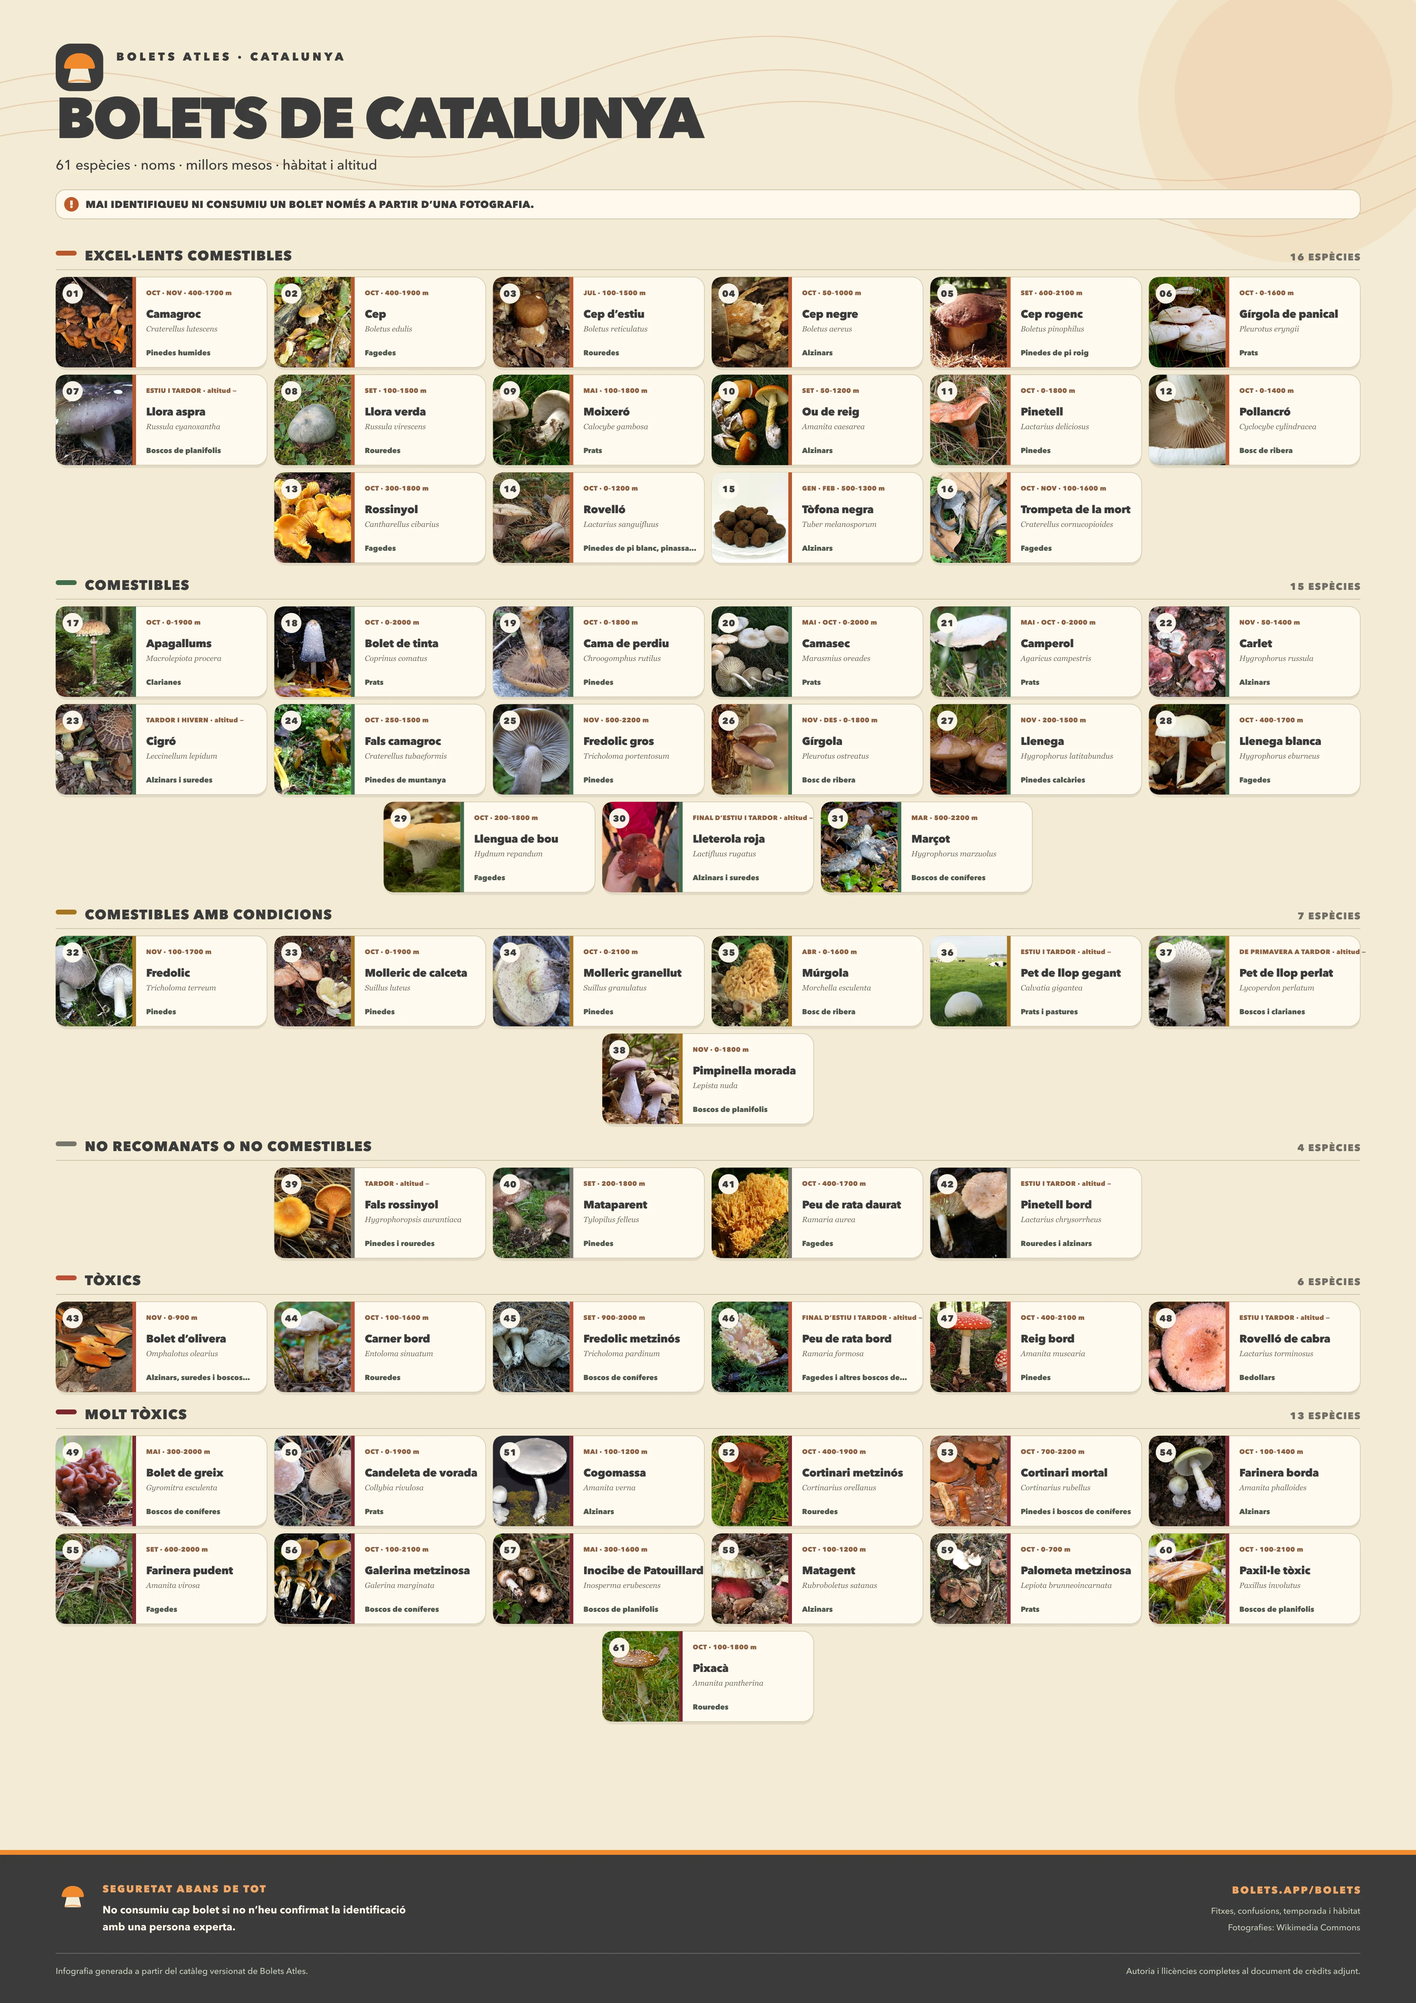
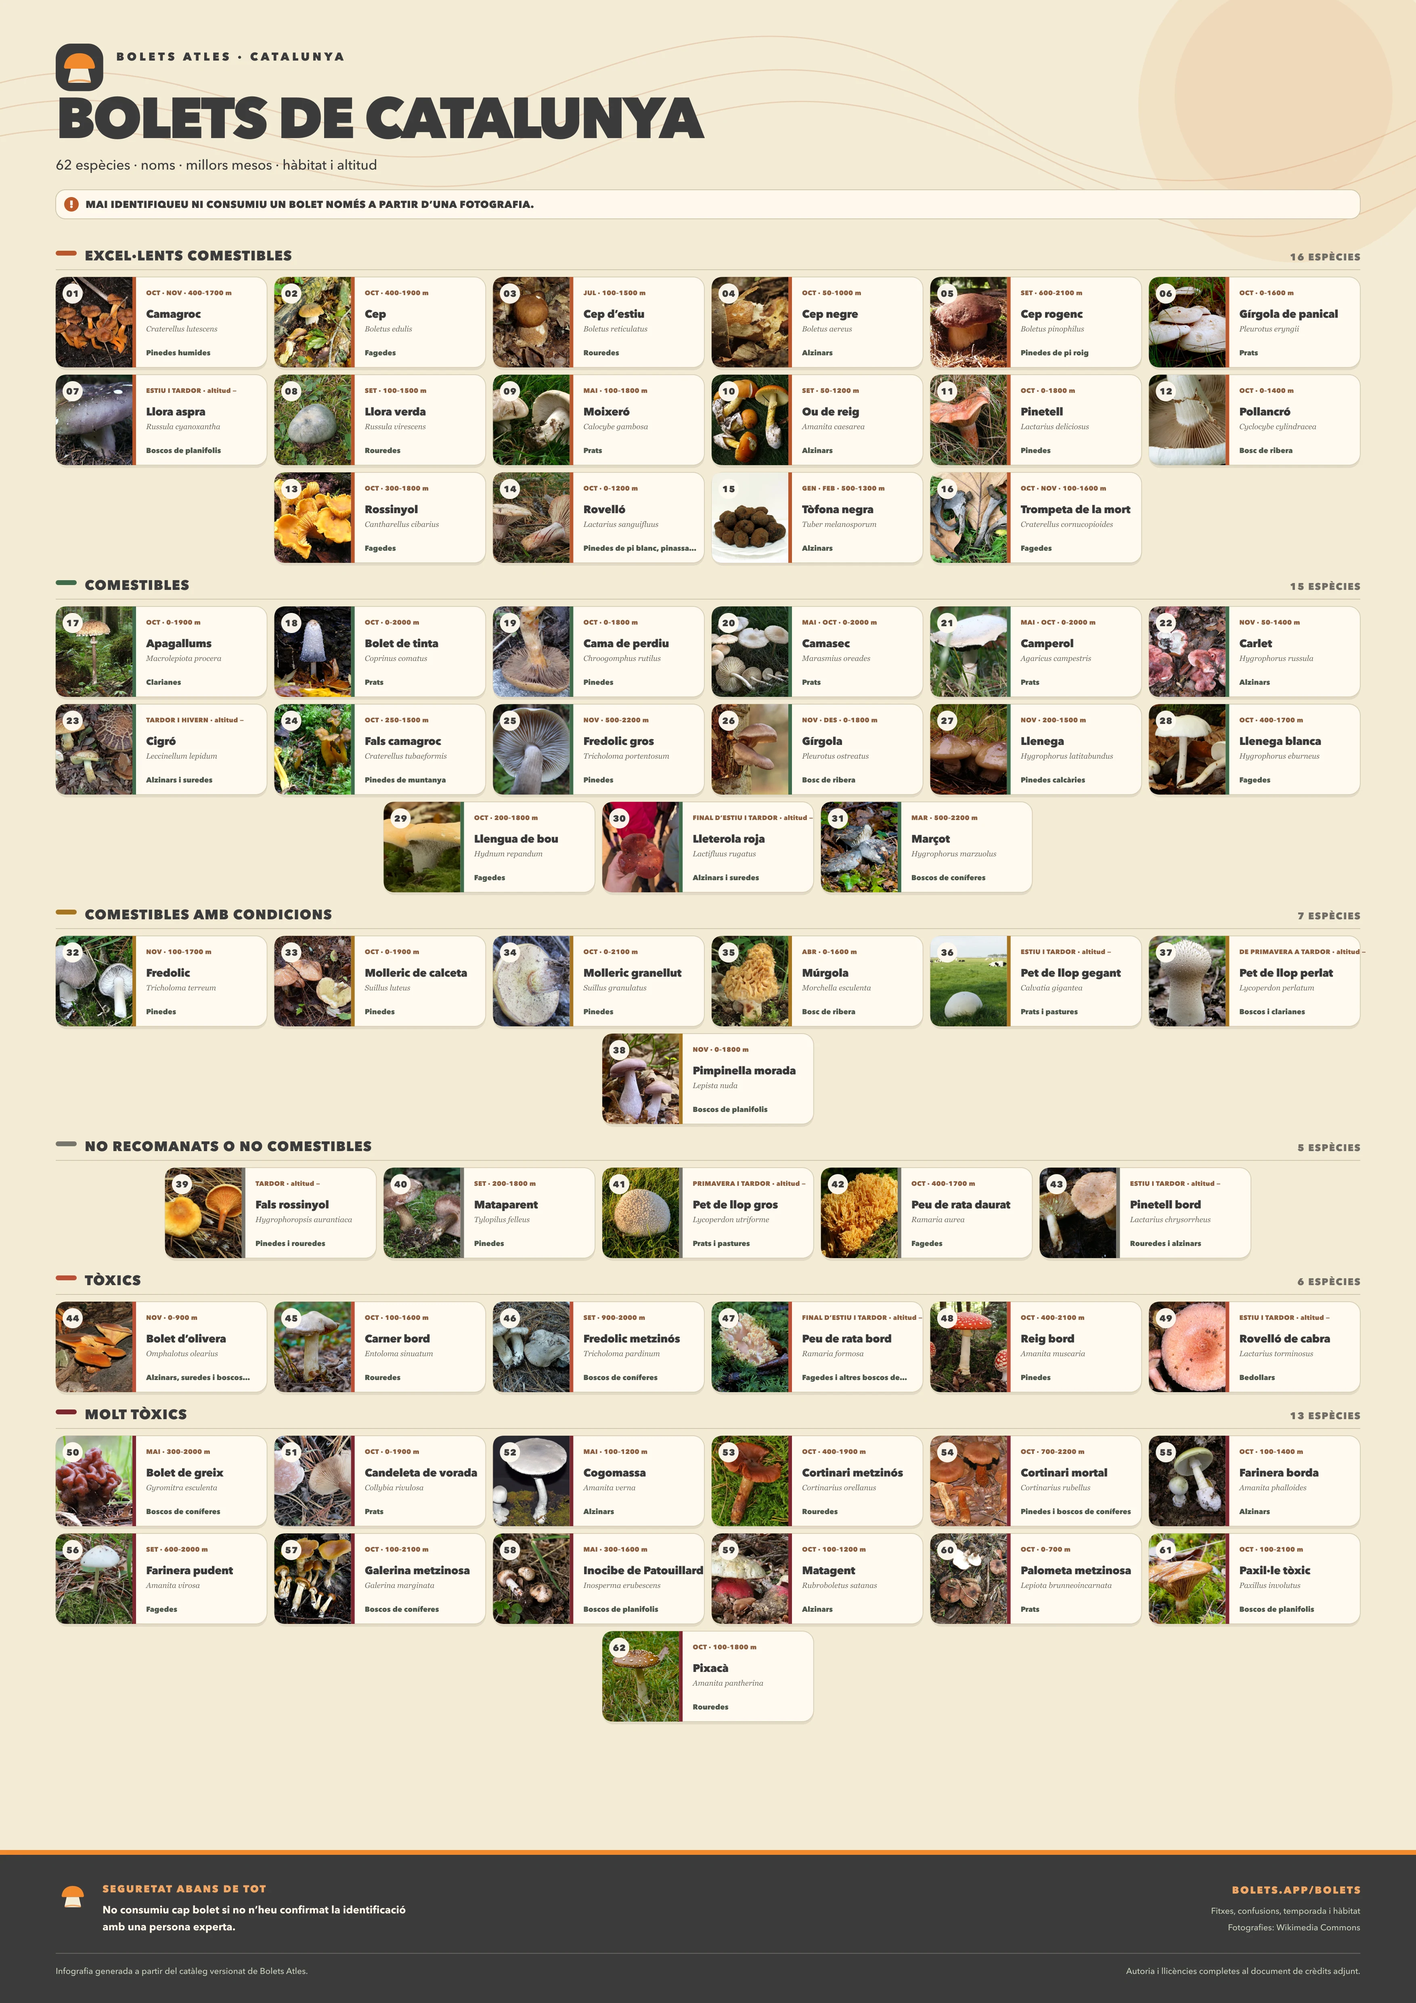
Add pet de llop gros species guide

Changed region(s): [[0.0932, 0.5624, 0.9011, 0.6561]]

diff --git a/data/reference-species-additions.ts b/data/reference-species-additions.ts
@@ -2,6 +2,7 @@ import { officialSafetySource } from "@/data/editorial";
 import {
   goldenMilkcapSources,
   holmOakBoleteSources,
+  mosaicPuffballSources,
   ramariaFormosaSources,
   woollyMilkcapSources,
   wrinkledMilkcapSources,
@@ -12,6 +13,78 @@ import type { ReferenceSpeciesProfile } from "@/src/lib/types";
 // Descriptive profiles intentionally omit numerical ecology. The public names
 // retain familiar Catalan searches while the copy resolves regional collisions.
 export const referenceSpeciesAdditions: ReferenceSpeciesProfile[] = [{
+  speciesId: "lycoperdon-utriforme",
+  scope: "reference-only",
+  seo: {
+    title: "Pet de llop gros (Lycoperdon utriforme)",
+    description: "Guia del pet de llop gros: plaques piramidals, prats, maduració i diferències amb els pets de llop perlat i gegant.",
+    keywords: ["calvatia utriformis", "handkea utriformis", "pet de llop gros bolet"],
+  },
+  identity: {
+    commonName: "Pet de llop gros",
+    alternateNames: [],
+    scientificName: "Lycoperdon utriforme",
+    family: "Agaricaceae",
+    genus: "Lycoperdon",
+    edibility: "not_recommended",
+    identificationDifficulty: "Cal examinar la superfície, la base i l’interior",
+    typicalSize: "Cos fructífer de 5–15 cm",
+    shortDescription: "Pet de llop gran de prats i pastures, amb una superfície blanca dividida en plaques piramidals que recorden un mosaic. També s’ha publicat com Calvatia utriformis i Handkea utriformis.",
+  },
+  morphology: {
+    cap: "No presenta un barret separat: forma un cos subglobós o piriforme, sovint una mica aplanat a la part superior.",
+    hymenium: "No té làmines ni porus externs. Les espores maduren dins la gleba i s’alliberen quan la part superior de la coberta es desfà.",
+    stem: "La part inferior s’estreny en una base ampla i estèril, sense formar un peu veritable.",
+    flesh: "La gleba és blanca i compacta de jove, després groguenca, olivàcia i finalment bruna i polsegosa. Una separació interna delimita la base estèril.",
+    colour: "Blanc de jove; gris o bru a mesura que madura.",
+    smell: "Poc característica i insuficient per confirmar l’espècie.",
+    texture: "La coberta exterior es clivella en plaques o berrugues piramidals amples; aquestes marques es perden progressivament amb l’edat.",
+    typicalAppearance: "Una bola o pera ampla sobre l’herba, amb la superfície marcada com un mosaic de plaques romes.",
+    keyFeatures: ["Plaques piramidals en mosaic", "Cos de 5–15 cm", "Base ampla i estèril", "Prats i pastures"],
+    variation: "Els exemplars joves poden ser molt blancs i els madurs perden les plaques, s’enfosqueixen i s’obren irregularment per dalt. La mida i el color, per si sols, no resolen la identificació.",
+  },
+  similarSpecies: [{
+    scientificName: "Calvatia gigantea",
+    commonName: "Pet de llop gegant",
+    mainDifferences: "Pot assolir dimensions molt més grans i presenta una superfície jove llisa, sense el mosaic de plaques piramidals ni una base cònica marcada.",
+    edibility: "edible_with_conditions",
+    toxicity: "La comestibilitat atribuïda a una altra espècie no permet consumir un exemplar dubtós.",
+    warning: true,
+  }, {
+    scientificName: "Lycoperdon perlatum",
+    commonName: "Pet de llop perlat",
+    mainDifferences: "És habitualment més petit i en forma de pera, amb agullons cònics fins que deixen marques rodones quan cauen, no plaques amples en mosaic.",
+    edibility: "edible_with_conditions",
+    toxicity: "Només es considera comestible de jove i amb una identificació segura.",
+    warning: true,
+  }, {
+    scientificName: "Scleroderma citrinum",
+    commonName: "Escleroderma comú",
+    mainDifferences: "Té una coberta gruixuda, dura i groguenca; l’interior aviat es torna gris violaci o negre en lloc de mantenir una gleba blanca homogènia.",
+    edibility: "toxic",
+    toxicity: "Pot causar trastorns gastrointestinals.",
+    warning: true,
+  }],
+  ecology: {
+    habitats: ["Prats i pastures", "Espais oberts i assolellats"],
+    season: "Primavera i tardor",
+    description: "Aranzadi i Micoex el situen en prats, pastures i altres espais oberts. Pot aparèixer sol o en grups i les restes de la base poden persistir després de dispersar les espores.",
+    limitations: "L’hàbitat i l’època són descriptius. No disposem d’una configuració ecològica quantitativa validada per publicar-ne prediccions, altituds o un mapa potencial.",
+  },
+  safetyNotice: "Una fotografia no confirma un pet de llop. Per examinar-lo cal veure l’exemplar complet i un tall vertical: qualsevol estructura interna de barret, làmines o peu descarta la identificació. No consumiu exemplars dubtosos, groguencs, foscos o polsegosos.",
+  culinaryProfile: {
+    kind: "safety",
+    rating: 0,
+    ratingLabel: "No recomanat",
+    ratingRationale: "Les fonts no coincideixen en l’interès culinari: Aranzadi el classifica sense valor, mentre que Micoex només el considera mediocre quan és molt jove. La fitxa adopta el criteri conservador.",
+    summary: "No el proposem per al consum. La semblança entre pets de llop i altres bolets tancats fa que l’aspecte exterior i una fotografia siguin insuficients.",
+    cautions: ["No tasteu ni consumiu un exemplar identificat només per una fotografia.", "No inhaleu la pols d’espores dels exemplars madurs."],
+    sources: [...mosaicPuffballSources, officialSafetySource],
+  },
+  references: [...mosaicPuffballSources, officialSafetySource],
+  media: speciesMedia["lycoperdon-utriforme"] ?? [],
+  confidence: "limited",
+}, {
   speciesId: "lactarius-chrysorrheus",
   scope: "reference-only",
   seo: {

diff --git a/tests/reference-species.test.ts b/tests/reference-species.test.ts
@@ -29,6 +29,7 @@ describe("descriptive catalogue species", () => {
   it.each([
     ["lycoperdon-perlatum", "pet-de-llop-perlat", "Pet de llop perlat", "edible_with_conditions"],
     ["calvatia-gigantea", "pet-de-llop-gegant", "Pet de llop gegant", "edible_with_conditions"],
+    ["lycoperdon-utriforme", "pet-de-llop-gros", "Pet de llop gros", "not_recommended"],
     ["russula-cyanoxantha", "llora-aspra", "Llora aspra", "excellent_edible"],
     ["lactarius-chrysorrheus", "pinetell-bord", "Pinetell bord", "inedible"],
     ["lactarius-torminosus", "rovello-de-cabra", "Rovelló de cabra", "toxic"],
@@ -50,7 +51,7 @@ describe("descriptive catalogue species", () => {
     expect(card.ecologicalConfig.seasonality).toBeNull();
     for (const asset of profile.media) {
       expect(asset.attribution).toBeTruthy();
-      expect(asset.license).toMatch(/^CC BY/);
+      expect(asset.license).toMatch(/^(CC BY|Cedida per l’autor|Domini públic)/);
       expect(statSync(join(process.cwd(), "public", asset.localPath!)).size).toBeGreaterThan(0);
     }
     const params = Promise.resolve({ slug: canonicalSlug });
@@ -74,9 +75,11 @@ describe("descriptive catalogue species", () => {
     expect(html).not.toContain("No es recomana consumir-lo");
     expect(html).not.toContain("/_next/image");
     expect(sitemap().find(item => item.url.endsWith(`/bolets/${canonicalSlug}`))?.lastModified).toEqual(new Date("2026-09-02T00:00:00+02:00"));
-    if (["lycoperdon-perlatum", "calvatia-gigantea"].includes(id)) {
-      const relatedSlug = id === "lycoperdon-perlatum" ? "pet-de-llop-gegant" : "pet-de-llop-perlat";
-      expect(html).toContain(`href="/bolets/${relatedSlug}"`);
+    if (["lycoperdon-perlatum", "calvatia-gigantea", "lycoperdon-utriforme"].includes(id)) {
+      const puffballSlugs = ["pet-de-llop-perlat", "pet-de-llop-gegant", "pet-de-llop-gros"];
+      for (const relatedSlug of puffballSlugs.filter(candidate => candidate !== canonicalSlug)) {
+        expect(html).toContain(`href="/bolets/${relatedSlug}"`);
+      }
       expect(html).toContain("Himeni");
       expect(profile.morphology.hymenium).toContain("No té làmines");
     }

diff --git a/data/reference-species.ts b/data/reference-species.ts
@@ -93,6 +93,11 @@ const originalReferenceSpeciesProfiles: ReferenceSpeciesProfile[] = [{
       edibility: "edible_with_conditions", toxicity: "La comestibilitat es limita als exemplars joves correctament identificats.", warning: true,
     },
     {
+      scientificName: "Lycoperdon utriforme", commonName: "Pet de llop gros",
+      mainDifferences: "És més gran i ample, propi sobretot de prats, i la superfície es divideix en plaques piramidals romes que formen un mosaic.",
+      edibility: "not_recommended", toxicity: "La fitxa adopta un criteri conservador perquè les fonts discrepen sobre l’interès culinari.", warning: true,
+    },
+    {
       scientificName: "Amanita phalloides", commonName: "Farinera borda",
       mainDifferences: "Una amanita encara tancada dins el vel pot semblar una bola blanca. Un tall longitudinal revela estructures de barret, làmines i peu en formació.",
       edibility: "dangerously_toxic", toxicity: "Pot causar una intoxicació mortal.", warning: true,
@@ -149,6 +154,11 @@ const originalReferenceSpeciesProfiles: ReferenceSpeciesProfile[] = [{
       scientificName: "Lycoperdon perlatum", commonName: "Pet de llop perlat",
       mainDifferences: "És més petit, en forma de pera, amb una base allargada i agullons que deixen marques en desprendre’s.",
       edibility: "edible_with_conditions", toxicity: "Només es considera comestible de jove i amb identificació segura.", warning: true,
+    },
+    {
+      scientificName: "Lycoperdon utriforme", commonName: "Pet de llop gros",
+      mainDifferences: "És més petit que el gegant, té una base ampla i la superfície jove es clivella en plaques piramidals en mosaic en lloc de ser llisa.",
+      edibility: "not_recommended", toxicity: "La fitxa adopta un criteri conservador perquè les fonts discrepen sobre l’interès culinari.", warning: true,
     },
     {
       scientificName: "Amanita phalloides", commonName: "Farinera borda",

diff --git a/data/species-media.ts b/data/species-media.ts
@@ -1,6 +1,32 @@
 import type { MediaAsset } from "@/src/lib/types";
 
 export const speciesMedia: Record<string, MediaAsset[]> = {
+  "lycoperdon-utriforme": [{
+    id: "aleix-ventayol-lycoperdon-utriforme-edited",
+    localPath: "/media/editorial/lycoperdon-utriforme.webp",
+    sourceUrl: "https://bolets.app/media/editorial/lycoperdon-utriforme.webp",
+    attribution: "Aleix Ventayol",
+    license: "Cedida per l’autor a Bolets · edició assistida amb IA",
+    identificationReference: false,
+    alt: "Pet de llop gros jove i blanc en un prat, amb les plaques piramidals de la superfície destacades per la llum baixa.",
+  }, {
+    id: "aleix-ventayol-lycoperdon-utriforme-original",
+    localPath: "/media/editorial/lycoperdon-utriforme-original.webp",
+    sourceUrl: "https://bolets.app/media/editorial/lycoperdon-utriforme-original.webp",
+    attribution: "Aleix Ventayol",
+    license: "Cedida per l’autor a Bolets",
+    identificationReference: true,
+    alt: "Fotografia original d’un pet de llop gros blanc entre l’herba, amb un mosaic dens de plaques romes i irregulars.",
+  }, {
+    id: "wikimedia-lycoperdon-utriforme-chernilevsky",
+    localPath: "/media/wikimedia/lycoperdon-utriforme-reference.webp",
+    imageUrl: "https://upload.wikimedia.org/wikipedia/commons/e/ef/Lycoperdon_utriforme%2C_Mosaic_Puffball_2010_G1.jpg",
+    sourceUrl: "https://commons.wikimedia.org/wiki/File:Lycoperdon_utriforme,_Mosaic_Puffball_2010_G1.jpg",
+    attribution: "George Chernilevsky",
+    license: "Domini públic · mida i format adaptats",
+    identificationReference: true,
+    alt: "Lycoperdon utriforme de prop de catorze centímetres, ample i blanc, amb la base lleugerament més estreta.",
+  }],
   "lycoperdon-perlatum": [{
     id: "wikimedia-single-lycoperdon-perlatum",
     localPath: "/media/wikimedia/lycoperdon-perlatum.webp",

diff --git a/data/field-guide-sources.ts b/data/field-guide-sources.ts
@@ -67,6 +67,30 @@ export const giantPuffballSources: SourceReference[] = [
   },
 ];
 
+export const mosaicPuffballSources: SourceReference[] = [
+  {
+    id: "optimot-pet-de-llop-gros",
+    title: "Pet de llop gros: denominació i descripció",
+    publisher: "Optimot · Generalitat de Catalunya · DIEC",
+    url: "https://aplicacions.llengua.gencat.cat/llc/AppJava/index.html?action=Principal&categories_avansada=&clickLink=detall&database=DIEC&databases_avansada=&idFont=10654&idHit=10654&input_cercar=Bolet&method=detall&numPagina=13&numeroResultat=125",
+    confidence: "high",
+  },
+  {
+    id: "aranzadi-lycoperdon-utriforme",
+    title: "Lycoperdon utriforme: morfologia, hàbitat i noms populars",
+    publisher: "Sociedad de Ciencias Aranzadi",
+    url: "https://www.aranzadi.eus/buscador-micologico/ficha/1-4-014.09.09.00.10.00?from=gallery",
+    confidence: "high",
+  },
+  {
+    id: "micoex-calvatia-utriformis",
+    title: "Calvatia utriformis: plaques piramidals, hàbitat i maduració",
+    publisher: "Sociedad Micológica Extremeña",
+    url: "https://micoex.org/2016/09/17/calvatia-utriformis/",
+    confidence: "high",
+  },
+];
+
 export const charcoalBurnerSources: SourceReference[] = [
   {
     id: "aranzadi-russula-cyanoxantha", title: "Russula cyanoxantha: fitxa micològica i noms populars",

diff --git a/tests/e2e/reference-species.spec.ts b/tests/e2e/reference-species.spec.ts
@@ -7,10 +7,11 @@ test("new reference species are searchable and have distinct profiles", async ({
   await page.goto("/bolets");
   const search = page.getByRole("textbox", { name: "Cerca espècies" });
   await search.fill("pet de llop");
-  await expect(page.locator(".directory-shell .species-card")).toHaveCount(2);
+  await expect(page.locator(".directory-shell .species-card")).toHaveCount(3);
   for (const [term, name, slug] of [
     ["Lycoperdon perlatum", "Pet de llop perlat", "pet-de-llop-perlat"],
     ["bufa del diable", "Pet de llop gegant", "pet-de-llop-gegant"],
+    ["Lycoperdon utriforme", "Pet de llop gros", "pet-de-llop-gros"],
     ["puagra llora", "Llora aspra", "llora-aspra"],
     ["Lactarius chrysorrheus", "Pinetell bord", "pinetell-bord"],
     ["Lactarius torminosus", "Rovelló de cabra", "rovello-de-cabra"],

diff --git a/data/editorial.ts b/data/editorial.ts
@@ -162,6 +162,7 @@ const defaultMetadata: EditorialMetadata = {
 const metadataOverrides: Record<string, Partial<EditorialMetadata>> = {
   "species:lycoperdon-perlatum": { publishedAt: "2026-09-02", updatedAt: "2026-09-02" },
   "species:calvatia-gigantea": { publishedAt: "2026-09-02", updatedAt: "2026-09-02" },
+  "species:lycoperdon-utriforme": { publishedAt: "2026-09-02", updatedAt: "2026-09-02" },
   "species:russula-cyanoxantha": { publishedAt: "2026-09-02", updatedAt: "2026-09-02" },
   "species:lactarius-chrysorrheus": { publishedAt: "2026-09-02", updatedAt: "2026-09-02" },
   "species:lactarius-torminosus": { publishedAt: "2026-09-02", updatedAt: "2026-09-02" },

diff --git a/tests/mushroom-parts-guide.test.ts b/tests/mushroom-parts-guide.test.ts
@@ -35,7 +35,7 @@ describe("mushroom parts guide", () => {
 
   it("renders an accessible interactive anatomy explorer", () => {
     expect(html).toContain("Explora l’anatomia del bolet");
-    expect(html).toContain('/media/optimized/v7/editorial/parts-dun-bolet-infografia-v2.');
+    expect(html).toContain('/media/optimized/v8/editorial/parts-dun-bolet-infografia-v2.');
     expect(html).toContain('aria-label="Parts assenyalades del bolet"');
     expect(html).toContain('aria-controls="mushroom-part-detail mushroom-part-mobile-detail"');
     expect(html).toContain('aria-pressed="true"');

diff --git a/data/species-slugs.ts b/data/species-slugs.ts
@@ -61,6 +61,7 @@ export const speciesSlugs = {
   "hygrophoropsis-aurantiaca": "fals-rossinyol",
   "lycoperdon-perlatum": "pet-de-llop-perlat",
   "calvatia-gigantea": "pet-de-llop-gegant",
+  "lycoperdon-utriforme": "pet-de-llop-gros",
   "russula-cyanoxantha": "llora-aspra",
   "lactarius-chrysorrheus": "pinetell-bord",
   "lactarius-torminosus": "rovello-de-cabra",

diff --git a/tests/seo-query-ownership.test.ts b/tests/seo-query-ownership.test.ts
@@ -97,7 +97,7 @@ describe("SEO query ownership", () => {
   it("keeps the coordinated release URL-neutral", () => {
     const entries = buildSitemap();
 
-    expect(entries).toHaveLength(214);
+    expect(entries).toHaveLength(215);
     expect(new Set(entries.map(({ url }) => url)).size).toBe(entries.length);
   });
 });

diff --git a/src/lib/static-media.ts b/src/lib/static-media.ts
@@ -1,6 +1,6 @@
 const STATIC_MEDIA_ROOT = "/media/";
 
-export const STATIC_MEDIA_VERSION = "v7";
+export const STATIC_MEDIA_VERSION = "v8";
 export const STATIC_MEDIA_WIDTHS = [64, 96, 192, 256, 384, 640, 960, 1280, 1920] as const;
 
 export function staticMediaVariantPath(source: string, width: number) {
